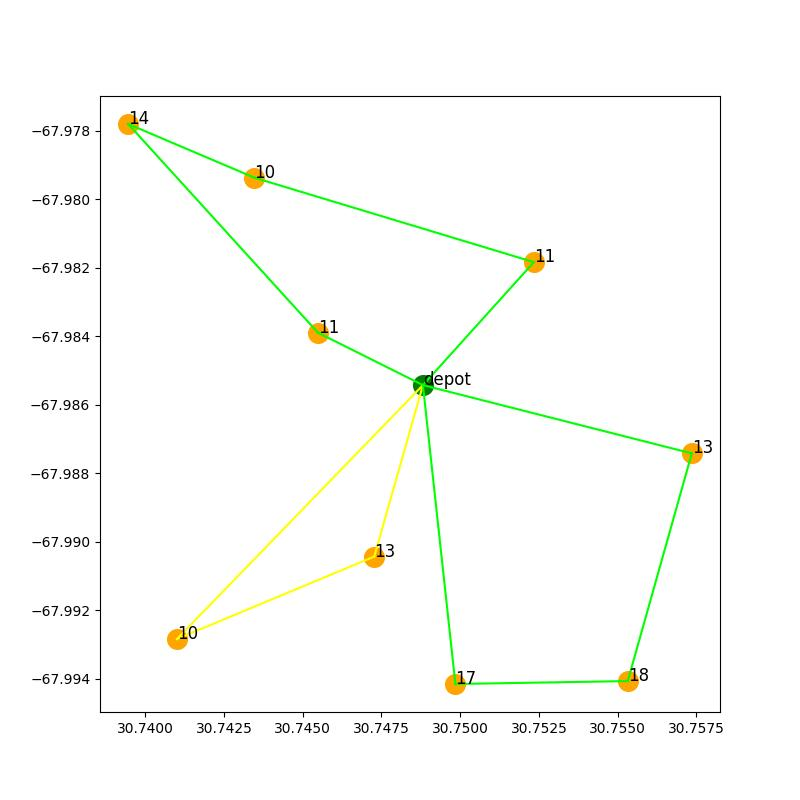
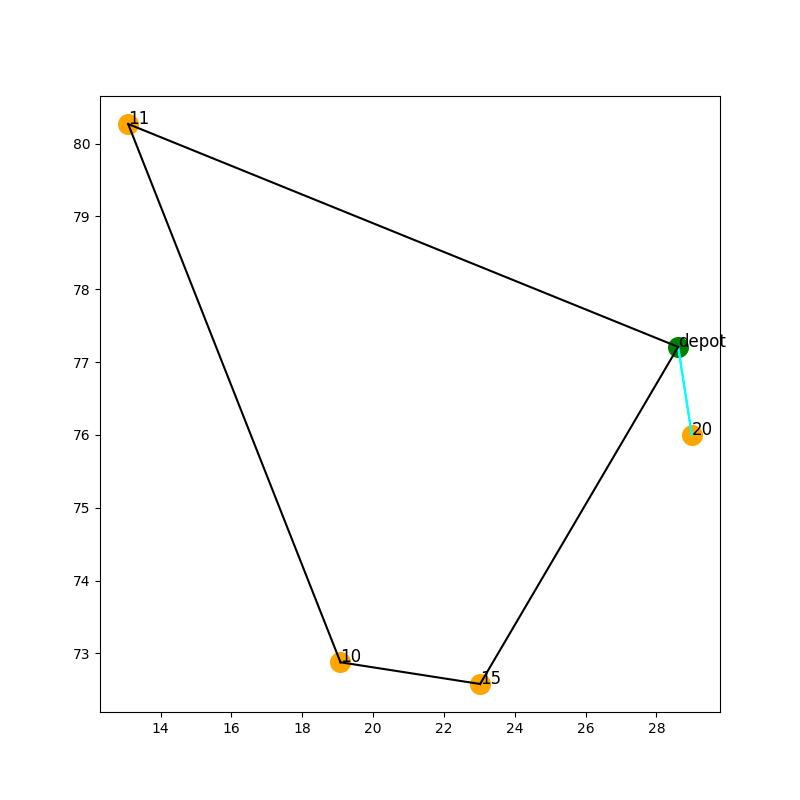
Updating the optimizeroute.py script

diff --git a/WebApp/server/optimizeroutes.py b/WebApp/server/optimizeroutes.py
@@ -8,14 +8,25 @@ import gmaps
 import googlemaps
 import matplotlib.pyplot as plt
 import time
+from geopy import distance
 pd.options.mode.chained_assignment = None  # default='warn'
 
-'''API_KEY = 'YOUR_GOOGLE_MAPS_API_KEY'
-gmaps.configure(api_key=API_KEY)
-googlemaps = googlemaps.Client(key=API_KEY)'''
+from geopy.geocoders import Nominatim
+geocoder = Nominatim(user_agent = 'IFP_WebApp')
+
+from geopy.extra.rate_limiter import RateLimiter
+geocode = RateLimiter(geocoder.geocode, min_delay_seconds = 1,   return_value_on_exception = None) 
+# adding 1 second padding between calls
+
+# The program accepts address list in the following manner
+# address_depot#address1#address2 etc.
+address_list = sys.argv[3].split('#')
+
+# Inputs a string of volumes of used oil to be picked up from each location except the depot
+volume_list = sys.argv[4].split('#')
 
 # customer count ('0' is depot) 
-customer_count = 10
+customer_count = len(address_list)  # saves the number of locations
 
 # the number of vehicle
 vehicle_count = int(sys.argv[1])
@@ -26,20 +37,25 @@ vehicle_capacity = int(sys.argv[2])
 # fix random seed
 np.random.seed(seed=779)
 
-# set depot latitude and longitude
-depot_latitude = 30.748817
-depot_longitude = -67.985428
+latitude_list = []
+longitude_list = []
 
+for i in range(customer_count):
+    # after initiating geocoder
+    location = geocode(address_list[i])
+    # returns location object with longitude, latitude and altitude instances
+    latitude_list.append(location.latitude)
+    longitude_list.append(location.longitude)
+
+volume_list = ['0'] + volume_list # set volume of the deopt to 0
+# print(address_list)
+# print(volume_list)
 # make dataframe which contains vending machine location and demand
-df = pd.DataFrame({"latitude":np.random.normal(depot_latitude, 0.007, customer_count), 
-                   "longitude":np.random.normal(depot_longitude, 0.007, customer_count), 
-                   "demand":np.random.randint(10, 20, customer_count)})
-
-
-# set the depot as the center and make demand 0 ('0' = depot)
-df.iloc[0,0] = depot_latitude
-df.iloc[0,1] = depot_longitude
-df.iloc[0,2] = 0
+df_list = [latitude_list, longitude_list, volume_list]
+df = pd.DataFrame (df_list).transpose()
+df.columns = ['latitude', 'longitude', 'demand']
+df['demand'] = pd.to_numeric(df['demand'], errors='coerce')
+# print (df)
 
 # function for plotting on google maps
 def _plot_on_gmaps(_df):
@@ -64,14 +80,8 @@ def _distance_calculator(_df):
     
     for i in range(len(_df)):
         for j in range(len(_df)):
-            
-            # calculate distance of all pairs
-            '''_google_maps_api_result = googlemaps.directions(_df['latitude-longitude'].iloc[i],
-                                                            _df['latitude-longitude'].iloc[j],
-                                                            mode = 'driving')'''
-            # append distance to result list
-            '''_distance_result[i][j] = _google_maps_api_result[0]['legs'][0]['distance']['value']'''
-            _distance_result[i][j] = math.sqrt((_df.latitude[i] - _df.latitude[j])**2 + (_df.longitude[i] - _df.longitude[j])**2)
+            # Currently calculates the shortest distance along the surface of earth
+            _distance_result[i][j] = distance.distance((_df.latitude[i],_df.longitude[i]),(_df.latitude[j], _df.longitude[j])).km
     
     return _distance_result
 
